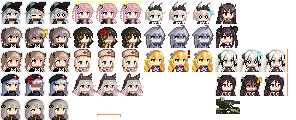
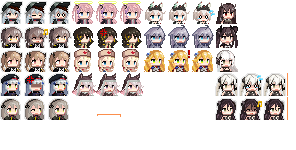
게이저, 6티어 픽셀 밀림, 그 외
ARMO 속성 추가 이름 이상하게 출력되는 버그 해결

diff --git a/core/src/main/java/com/gfpixel/gfpixeldungeon/DialogInfo.java b/core/src/main/java/com/gfpixel/gfpixeldungeon/DialogInfo.java
@@ -93,17 +93,15 @@ public  class DialogInfo
     private static final Point EXECUTIONER  = new Point(SANGVIS, 0);
     // TODO emotion.png에서 우로보로스의 스프라이트 위치를 1열 2번째에서 다른 위치로 변경
     private static final Point UROBOROS     = new Point(SANGVIS, 1);
-
-    private static final Point DESTROYER    = new Point(SANGVIS, 2);
-    private static final Point DREAMER      = new Point(SANGVIS, 3);
-
-    private static final Point TYPHOON      = new Point(SANGVIS, 4);
+    private static final Point GEGAR      = new Point(SANGVIS, 2);
+    private static final Point DESTROYER    = new Point(SANGVIS, 3);
+    private static final Point DREAMER      = new Point(SANGVIS, 4);
 
     public static final String[][] NAMES = new String[][] {
             {"G11", "UMP45", "UMP9", "HK416", "UMP40"},
             {"ST-AR 15", "M16A1", "Ppsh-47", "P7"},
             {"엘펠트 발렌타인", "제퓨티", "노엘"},
-            {"익스큐셔너", "디스트로이어", "드리머", "우로보로스", "타이푼"}
+            {"익스큐셔너", "우로보로스", "게이저", "디스트로이어", "드리머"}
     };
 
     public static final int ID_SEWER		= 1;
@@ -170,7 +168,7 @@ public  class DialogInfo
                 new DialogInfo (
                         "uroboros",
                         new Point[]{UROBOROS},
-                        new int[]{        1} )
+                        new int[]{        0} )
         );
         STORIES.put( ID_RABBIT,
                 new DialogInfo (
@@ -206,6 +204,12 @@ public  class DialogInfo
                         new Point[]{G11, UMP45, G11, UMP45, G11, HK416, UMP9, HK416, G11},
                         new int[]  {  0,     2,   0,     1,   2,     1,    0,     1,   0}
                 )
+        );
+        STORIES.put( ID_CAVES_BOSS,
+                new DialogInfo (
+                        "gegar",
+                        new Point[]{GEGAR},
+                        new int[]{        0} )
         );
         STORIES.put( ID_CITY,
                 new DialogInfo (

diff --git a/core/src/main/java/com/gfpixel/gfpixeldungeon/sprites/GolemSprite.java b/core/src/main/java/com/gfpixel/gfpixeldungeon/sprites/GolemSprite.java
@@ -22,6 +22,7 @@
 package com.gfpixel.gfpixeldungeon.sprites;
 
 import com.gfpixel.gfpixeldungeon.Assets;
+import com.gfpixel.gfpixeldungeon.effects.Speck;
 import com.gfpixel.gfpixeldungeon.effects.particles.ElmoParticle;
 import com.watabou.noosa.TextureFilm;
 
@@ -30,35 +31,53 @@ public class GolemSprite extends MobSprite {
 	public GolemSprite() {
 		super();
 
-		texture( Assets.GOLEM );
+		texture( Assets.MANTI );
 
-		TextureFilm frames = new TextureFilm( texture, 16, 16 );
+		TextureFilm frames = new TextureFilm( texture, 25, 25 );
 
-		idle = new Animation( 4, true );
+		idle = new Animation( 2, true );
+		idle.frames( frames, 0, 0, 0, 0 );
+
+		run = new Animation( 10, true );
+		run.frames( frames, 1, 2, 3, 4, 5 );
+
+		attack = new Animation( 30, false );
+		attack.frames( frames, 6, 0, 7, 0 , 6, 0, 7 );
+
+		die = new Animation( 10, false );
+		die.frames( frames, 8, 9 );
+
+		/*
+		TextureFilm frames = new TextureFilm( texture, 22, 20 );
+
+		idle = new Animation( 10, true );
 		idle.frames( frames, 0, 1 );
 
-		run = new Animation( 12, true );
-		run.frames( frames, 2, 3, 4, 5 );
+		run = new Animation( 10, true );
+		run.frames( frames, 2, 3 );
 
-		attack = new Animation( 10, false );
-		attack.frames( frames, 6, 7, 8 );
+		attack = new Animation( 15, false );
+		attack.frames( frames, 4, 5, 6 );
 
-		die = new Animation( 15, false );
-		die.frames( frames, 9, 10, 11, 12, 13 );
+		die = new Animation( 20, false );
+		die.frames( frames, 0, 7, 0, 7, 0, 7, 0, 7, 0, 7, 0, 7, 8 );
+		*/
 
 		play( idle );
 	}
 
 	@Override
-	public int blood() {
-		return 0xFF80706c;
+	public void onComplete( Animation anim ) {
+
+		super.onComplete( anim );
+
+		if (anim == die) {
+			emitter().burst( Speck.factory( Speck.WOOL ), 15 );
+		}
 	}
 
 	@Override
-	public void onComplete( Animation anim ) {
-		if (anim == die) {
-			emitter().burst( ElmoParticle.FACTORY, 4 );
-		}
-		super.onComplete( anim );
+	public int blood() {
+		return 0xFFFFFF88;
 	}
 }

diff --git a/core/src/main/java/com/gfpixel/gfpixeldungeon/actors/mobs/Bestiary.java b/core/src/main/java/com/gfpixel/gfpixeldungeon/actors/mobs/Bestiary.java
@@ -98,21 +98,22 @@ public class Bestiary {
 				return new ArrayList<>(Arrays.asList(
 						Bat.class, Bat.class, Bat.class, Bat.class, Bat.class,
 						Brute.class, Brute.class, Brute.class, Brute.class, Brute.class,
+						Nemeum.class,
 						Spinner.class));
 			case 13:
 				//1x bat, 3x brute, 1x shaman, 1x spinner
 				return new ArrayList<>(Arrays.asList(
 						Bat.class,
 						Brute.class, Brute.class, Brute.class,
-						Shaman.class,
+						Nemeum.class, Nemeum.class,
 						Spinner.class));
 			case 14:
 				//1x bat, 3x brute, 1x shaman, 4x spinner
 				return new ArrayList<>(Arrays.asList(
 						Bat.class,
 						Brute.class, Brute.class, Brute.class,
-						Shaman.class,
-						Spinner.class, Spinner.class, Spinner.class, Spinner.class));
+						Nemeum.class, Nemeum.class, Nemeum.class,
+						Spinner.class, Spinner.class, Spinner.class));
 				
 			// City
 			case 16:
@@ -148,17 +149,13 @@ public class Bestiary {
 				return new ArrayList<>(Arrays.asList(
 						Goliath.class, Goliath.class, Goliath.class,
 						Aegis.class, Aegis.class, Aegis.class,
-						Jupiter.class, Jupiter.class,
-						Aegis.class,
-						Scorpio.class));
+						Jupiter.class, Jupiter.class));
 			case 23:
 				//2x succubus, 4x evil eye, 2x scorpio
 				return new ArrayList<>(Arrays.asList(
 						Goliath.class, Goliath.class, Goliath.class,
 						Aegis.class, Aegis.class, Aegis.class,
-						Jupiter.class, Jupiter.class,
-						Aegis.class,
-						Scorpio.class));
+						Jupiter.class, Jupiter.class));
 			case 24:
 				//1x succubus, 2x evil eye, 3x scorpio
 				return new ArrayList<>(Arrays.asList(

diff --git a/core/src/main/java/com/gfpixel/gfpixeldungeon/sprites/ItemSpriteSheet.java b/core/src/main/java/com/gfpixel/gfpixeldungeon/sprites/ItemSpriteSheet.java
@@ -168,6 +168,7 @@ public class ItemSpriteSheet {
 	public static final int M1A1    = WEP_TIER2+3;
 	public static final int NAGANTREVOLVER      = WEP_TIER2+4;
 	public static final int G36            = WEP_TIER2+5;
+	public static final int TRAVIAE           = WEP_TIER2+6;
 	static{
 		assignItemRect(M16,      15, 16);
 		assignItemRect(M1911,        12, 14);
@@ -175,6 +176,7 @@ public class ItemSpriteSheet {
 		assignItemRect(M1A1,    16, 16);
 		assignItemRect(NAGANTREVOLVER,            13, 14);
 		assignItemRect(G36,            16, 16);
+		assignItemRect(TRAVIAE,            15, 15);
 	}
 
 	private static final int WEP_TIER3      =                               xy(1, 8);   //8 slots
@@ -185,7 +187,6 @@ public class ItemSpriteSheet {
 	public static final int KRISS             = WEP_TIER3+4;
 	public static final int WA            = WEP_TIER3+5;
 	public static final int C96            = WEP_TIER3+6;
-	public static final int TRAVIAE           = WEP_TIER3+7;
 	static{
 		assignItemRect(KS23,           16, 16);
 		assignItemRect(KAR98,            15, 15);
@@ -194,7 +195,6 @@ public class ItemSpriteSheet {
 		assignItemRect(KRISS,             16, 16);
 		assignItemRect(WA,            14, 14);
 		assignItemRect(C96,            8, 12);
-		assignItemRect(TRAVIAE,            15, 15);
 	}
 
 	private static final int WEP_TIER4      =                               xy(9, 8);   //8 slots

diff --git a/core/src/main/java/com/gfpixel/gfpixeldungeon/actors/mobs/DM300.java b/core/src/main/java/com/gfpixel/gfpixeldungeon/actors/mobs/DM300.java
@@ -23,6 +23,7 @@ package com.gfpixel.gfpixeldungeon.actors.mobs;
 
 import com.gfpixel.gfpixeldungeon.Assets;
 import com.gfpixel.gfpixeldungeon.Badges;
+import com.gfpixel.gfpixeldungeon.DialogInfo;
 import com.gfpixel.gfpixeldungeon.Dungeon;
 import com.gfpixel.gfpixeldungeon.actors.Actor;
 import com.gfpixel.gfpixeldungeon.actors.Char;
@@ -45,6 +46,7 @@ import com.gfpixel.gfpixeldungeon.scenes.GameScene;
 import com.gfpixel.gfpixeldungeon.sprites.DM300Sprite;
 import com.gfpixel.gfpixeldungeon.ui.BossHealthBar;
 import com.gfpixel.gfpixeldungeon.utils.GLog;
+import com.gfpixel.gfpixeldungeon.windows.WndDialog;
 import com.watabou.noosa.Camera;
 import com.watabou.noosa.audio.Sample;
 import com.watabou.utils.Bundle;
@@ -155,12 +157,14 @@ public class DM300 extends Mob {
 		
 		yell( Messages.get(this, "defeated") );
 	}
-	
+
 	@Override
 	public void notice() {
 		super.notice();
 		BossHealthBar.assignBoss(this);
-		yell( Messages.get(this, "notice") );
+		if (!Dungeon.level.locked) {
+			WndDialog.ShowChapter(DialogInfo.ID_CAVES_BOSS);
+		}
 	}
 	
 	{

diff --git a/core/src/main/java/com/gfpixel/gfpixeldungeon/actors/mobs/Nemeum.java b/core/src/main/java/com/gfpixel/gfpixeldungeon/actors/mobs/Nemeum.java
@@ -50,7 +50,7 @@ public class Nemeum extends Mob {
         baseSpeed = 0.8f;
         maxLvl = 17;
 
-        properties.add(Property.INORGANIC);
+        properties.add(Property.ARMO);
     }
 // 사거리는 2칸으로 조정해주세요
     public int DamageReducer() { return 3; }
@@ -67,7 +67,7 @@ public class Nemeum extends Mob {
 
     @Override
     protected float attackDelay() {
-        return 2f;
+        return 1f;
     }
 
     @Override
@@ -114,7 +114,7 @@ public class Nemeum extends Mob {
     @Override
     protected boolean doAttack( Char enemy ) {
 
-        if (beamCooldown > 2) {
+        if (beamCooldown > 1) {
             return super.doAttack(enemy);
         } else if (!beamCharged){
             ((NemeumSprite)sprite).charge( enemy.pos );
@@ -215,7 +215,6 @@ public class Nemeum extends Mob {
     }
 
     {
-        resistances.add( WandOfDisintegration.class );
         resistances.add( Grim.class );
         resistances.add( Vampiric.class );
     }

diff --git a/core/src/main/java/com/gfpixel/gfpixeldungeon/sprites/DM300Sprite.java b/core/src/main/java/com/gfpixel/gfpixeldungeon/sprites/DM300Sprite.java
@@ -30,21 +30,22 @@ public class DM300Sprite extends MobSprite {
 	public DM300Sprite() {
 		super();
 		
-		texture( Assets.DM300 );
+		texture( Assets.GEGAR );
 
-		TextureFilm frames = new TextureFilm( texture, 25, 25 );
+		TextureFilm frames = new TextureFilm( texture, 24, 18 );
 
 		idle = new Animation( 2, true );
-		idle.frames( frames, 0, 0, 0, 0 );
+		idle.frames( frames, 0, 0, 0, 0, 0, 0, 0, 0, 10 );
 
-		run = new Animation( 10, true );
+		run = new Animation( 15, true );
 		run.frames( frames, 1, 2, 3, 4, 5 );
 
-		attack = new Animation( 15, false );
-		attack.frames( frames, 6, 7 );
+		attack = new Animation( 20, false );
+		attack.frames( frames, 7, 6, 7, 6 );
+		//돌진 전 대기동작은 8, 돌진 후 동작은 9
 
-		die = new Animation( 10, false );
-		die.frames( frames, 8, 9 );
+		die = new Animation( 2, false );
+		die.frames( frames, 10, 11, 12 );
 
 		/*
 		TextureFilm frames = new TextureFilm( texture, 22, 20 );

diff --git a/core/src/main/java/com/gfpixel/gfpixeldungeon/actors/hero/HeroClass.java b/core/src/main/java/com/gfpixel/gfpixeldungeon/actors/hero/HeroClass.java
@@ -48,6 +48,7 @@ import com.gfpixel.gfpixeldungeon.items.scrolls.ScrollOfRecharging;
 import com.gfpixel.gfpixeldungeon.items.scrolls.ScrollOfUpgrade;
 import com.gfpixel.gfpixeldungeon.items.wands.M79;
 import com.gfpixel.gfpixeldungeon.items.wands.M84;
+import com.gfpixel.gfpixeldungeon.items.wands.WandOfDisintegration;
 import com.gfpixel.gfpixeldungeon.items.wands.WandOfMagicMissile;
 import com.gfpixel.gfpixeldungeon.items.weapon.melee.Cannon;
 import com.gfpixel.gfpixeldungeon.items.weapon.melee.Gepard;
@@ -162,7 +163,7 @@ public enum HeroClass {
 			new DriedRose().identify().collect();
 			new Cannon().identify().collect();
 			new Kriss().identify().upgrade(3).collect();
-			new M84().identify().upgrade(3).collect();
+			new WandOfDisintegration().identify().upgrade().collect();
 			new PlateArmor().identify().upgrade(100).collect();
 		}
 

diff --git a/core/src/main/java/com/gfpixel/gfpixeldungeon/actors/mobs/Hydra.java b/core/src/main/java/com/gfpixel/gfpixeldungeon/actors/mobs/Hydra.java
@@ -24,6 +24,7 @@ package com.gfpixel.gfpixeldungeon.actors.mobs;
 import com.gfpixel.gfpixeldungeon.Dungeon;
 import com.gfpixel.gfpixeldungeon.actors.Actor;
 import com.gfpixel.gfpixeldungeon.actors.Char;
+import com.gfpixel.gfpixeldungeon.actors.buffs.Light;
 import com.gfpixel.gfpixeldungeon.actors.buffs.Terror;
 import com.gfpixel.gfpixeldungeon.effects.CellEmitter;
 import com.gfpixel.gfpixeldungeon.effects.particles.PurpleParticle;
@@ -47,10 +48,11 @@ public class Hydra extends Mob {
         HP = HT = 231;
         EXP = 19;
         defenseSkill = 15;
+        viewDistance = Light.DISTANCE;
         baseSpeed = 1f;
         maxLvl = 36;
 
-        properties.add(Property.INORGANIC);
+        properties.add(Property.ARMO);
     }
 
     public int DamageReducer() { return 3; }

diff --git a/core/src/main/java/com/gfpixel/gfpixeldungeon/actors/mobs/Succubus.java b/core/src/main/java/com/gfpixel/gfpixeldungeon/actors/mobs/Succubus.java
@@ -31,6 +31,7 @@ import com.gfpixel.gfpixeldungeon.actors.buffs.Light;
 import com.gfpixel.gfpixeldungeon.actors.buffs.Sleep;
 import com.gfpixel.gfpixeldungeon.effects.Speck;
 import com.gfpixel.gfpixeldungeon.items.scrolls.ScrollOfLullaby;
+import com.gfpixel.gfpixeldungeon.items.scrolls.ScrollOfMagicalInfusion;
 import com.gfpixel.gfpixeldungeon.items.scrolls.ScrollOfTeleportation;
 import com.gfpixel.gfpixeldungeon.mechanics.Ballistica;
 import com.gfpixel.gfpixeldungeon.sprites.SuccubusSprite;
@@ -56,10 +57,10 @@ public class Succubus extends Mob {
 		EXP = 12;
 		maxLvl = 25;
 		
-		loot = new ScrollOfLullaby();
+		loot = new ScrollOfMagicalInfusion();
 		lootChance = 0.05f;
 
-		properties.add(Property.DEMONIC);
+		properties.add(Property.ARMO);
 	}
 	
 	@Override

diff --git a/core/src/main/java/com/gfpixel/gfpixeldungeon/Assets.java b/core/src/main/java/com/gfpixel/gfpixeldungeon/Assets.java
@@ -76,12 +76,12 @@ public class Assets {
 	public static final String BAT			= "bat.png";
 	public static final String BRUTE		= "brute.png";
 	public static final String SPINNER		= "spinner.png";
-	public static final String DM300		= "dm300.png";
+	public static final String GEGAR		= "gegar.png";
 	public static final String WRAITH		= "wraith.png";
 	public static final String ELEMENTAL	= "elemental.png";
 	public static final String MONK			= "monk.png";
 	public static final String WARLOCK		= "warlock.png";
-	public static final String GOLEM		= "golem.png";
+	public static final String MANTI		= "manti.png";
 	public static final String UNDEAD		= "undead.png";
 	public static final String KING			= "king.png";
 	public static final String STATUE		= "statue.png";

diff --git a/core/src/main/java/com/gfpixel/gfpixeldungeon/items/weapon/melee/Traviae.java b/core/src/main/java/com/gfpixel/gfpixeldungeon/items/weapon/melee/Traviae.java
@@ -28,16 +28,16 @@ public class Traviae extends Launcher {
     {
         image = ItemSpriteSheet.TRAVIAE;
 
-        tier=3;
-        DLY = 1.5f;
+        tier=2;
+        DLY = 1.2f;
         RCH = 2;
-        ACC = 1.27f; //27% boost to accuracy
+        ACC = 1.3f; //27% boost to accuracy
     }
 
     @Override
     public int max(int lvl) {
-        return  Math.round(3*(tier+1)) +        //35 base, up from 25
-                lvl*Math.round(2.1f*(tier+1));  //+8 per level, up from +5
+        return  Math.round(5*(tier+1)) +        //35 base, up from 25
+                lvl*Math.round(2.5f*(tier+1));  //+8 per level, up from +5
     }
 
     @Override
